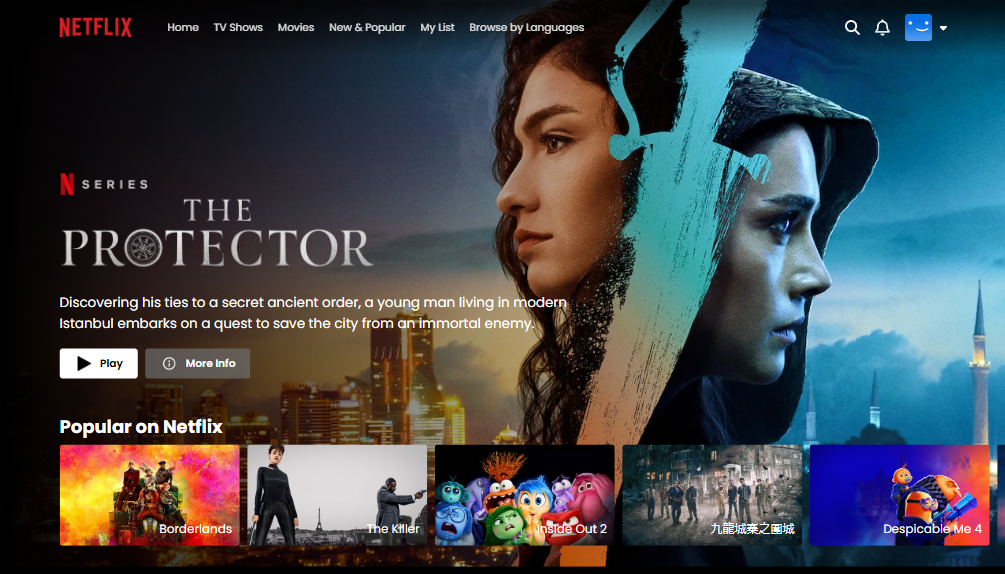
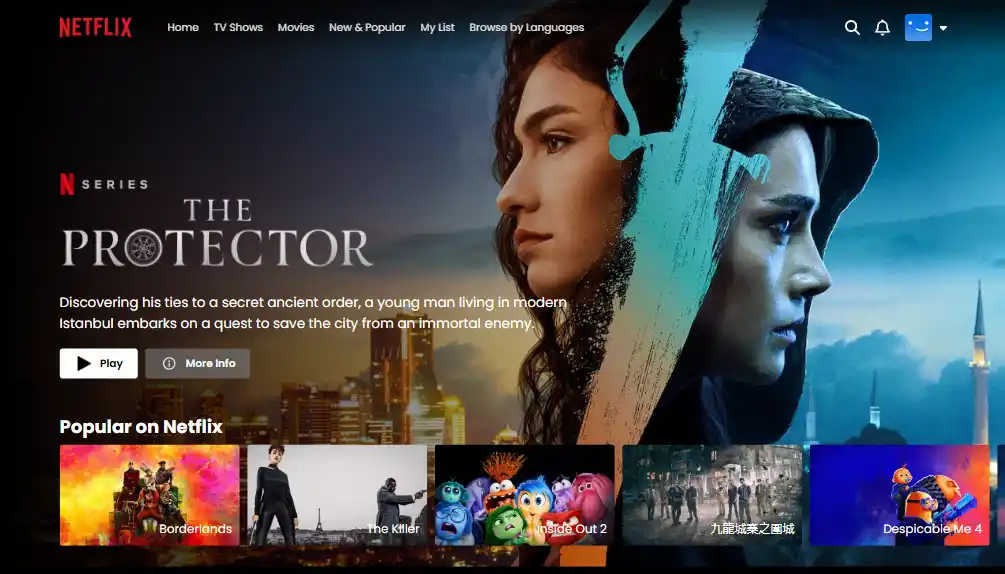
compress images

diff --git a/index.html b/index.html
@@ -13,7 +13,7 @@
     <meta name="author" content="Juan Díaz">
     <meta property="og:title" content="Juan Díaz - Desarrollador Full Stack">
     <meta property="og:description" content="Soy Juan Díaz, un desarrollador Full Stack con experiencia en crear aplicaciones web y soluciones personalizadas que cumplen con las necesidades de los clientes.">
-    <meta property="og:image" content="https://juand1az.vercel.app/portafolio.png">
+    <meta property="og:image" content="https://juand1az.vercel.app/portafolio.jpg">
     <meta property="og:url" content="https://juand1az.vercel.app/">
     <meta property="og:type" content="website" />
     <meta property="og:site_name" content="Juan Diaz - Portafolio" />
@@ -22,7 +22,7 @@
     <meta name="twitter:card" content="summary_large_image">
     <meta name="twitter:title" content="Juan Díaz - Desarrollador Full Stack">
     <meta name="twitter:description" content="Desarrollador Full Stack con experiencia en la creación de aplicaciones web y soluciones personalizadas.">
-    <meta name="twitter:image" content="https://juand1az.vercel.app/portafolio.png">
+    <meta name="twitter:image" content="https://juand1az.vercel.app/portafolio.jpg">
 
   </head>
   <body class="bg-[#F5F5F7] text-gray-900 dark:bg-[#0A0A0F] dark:text-gray-50">
